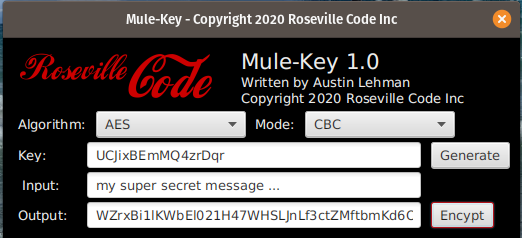
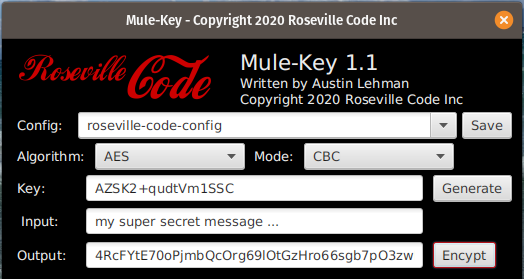
Updated POM to properly package dependent libs and updated doc and screenshot.

diff --git a/README.md b/README.md
@@ -1,6 +1,6 @@
 ![Mule-Key Logo](img/mule-key-128.png)
 
-# Mule-Key 1.0
+# Mule-Key 1.1
 
 Application providing mule crypto functions. The main purpose of this tool is to 
 assist with property encryption. This can be used instead of the Secure Properties 
@@ -18,6 +18,13 @@ The easy way is to grab the installer for your system.
 | Mac OS              | [mule-key-1.0.0.dmg](https://github.com/rsv-code/mule-key/releases/download/v1.0/mule-key-1.0.0.dmg)                 |
 | Windows             | [mule-key-1.0.0.exe](https://github.com/rsv-code/mule-key/releases/download/v1.0/mule-key-1.0.0.exe)                 |
 
+## Running
+If you installed with one of the prebuilt binaries, then you can just launch 
+the app from the main menu, desktop ... however you normally run an app. 
+Mule-key can save keys and it does to a file called mule-key-config.json. On 
+most system this file is saved to your home directory. The file is saved as 
+pretty-print JSON and you can manually copy it or contents to share key 
+info with others if you like.
 
 ## Building
 You can build from source with maven.
@@ -30,7 +37,7 @@ You can build from source with maven.
 ```
 > mvn clean package
 and then to run
-> java --module-path $PATH_TO_FX --add-modules javafx.controls,javafx.fxml -jar target/mule-key-1.0.jar
+> java --module-path $PATH_TO_FX --add-modules javafx.controls,javafx.fxml -jar target/mule-key-1.1.jar
 Where PATH_TO_FX is the lib directory where you put the JavaFX SDK.
 (example: /opt/javafx/javafx-sdk-14.0.1/lib)
 ```
